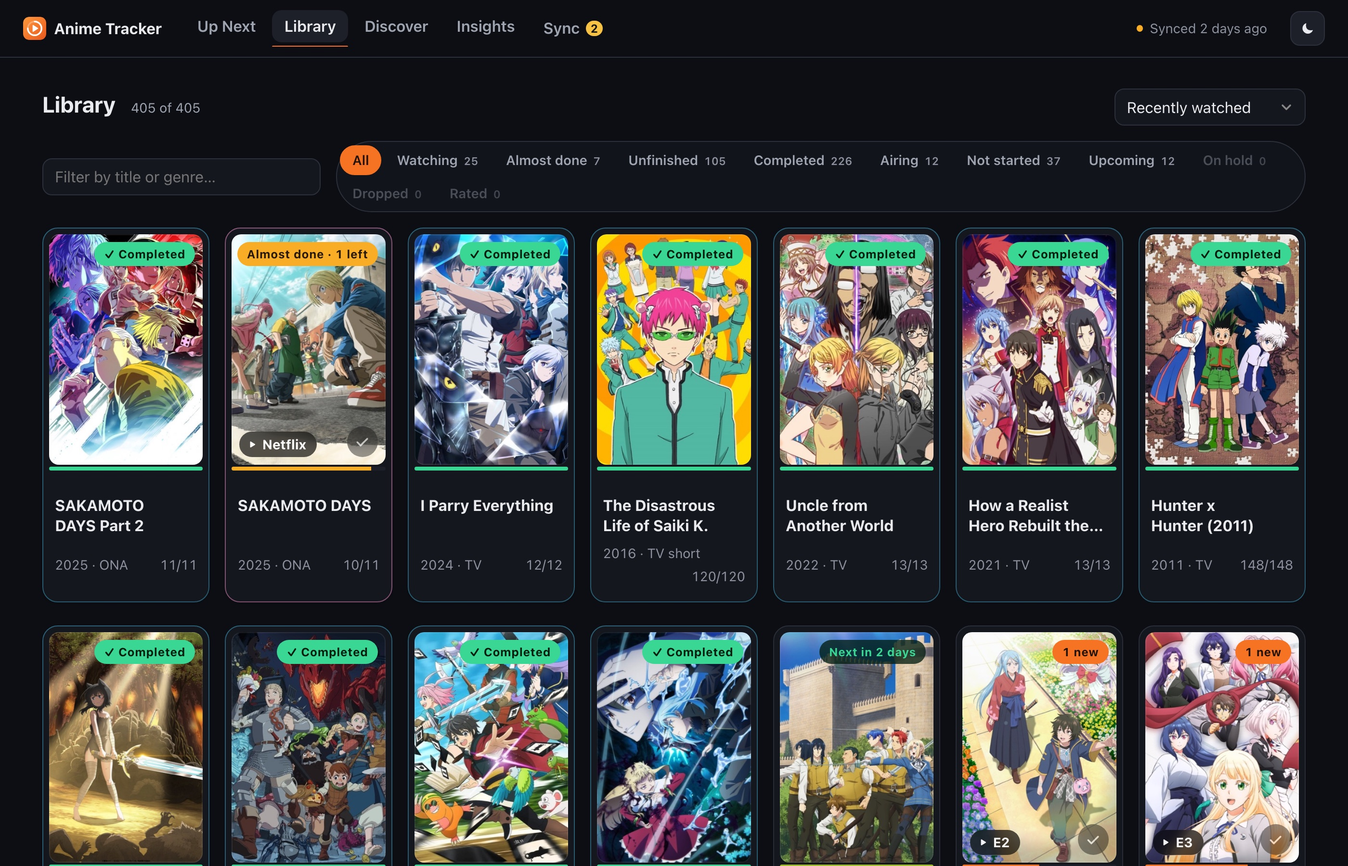
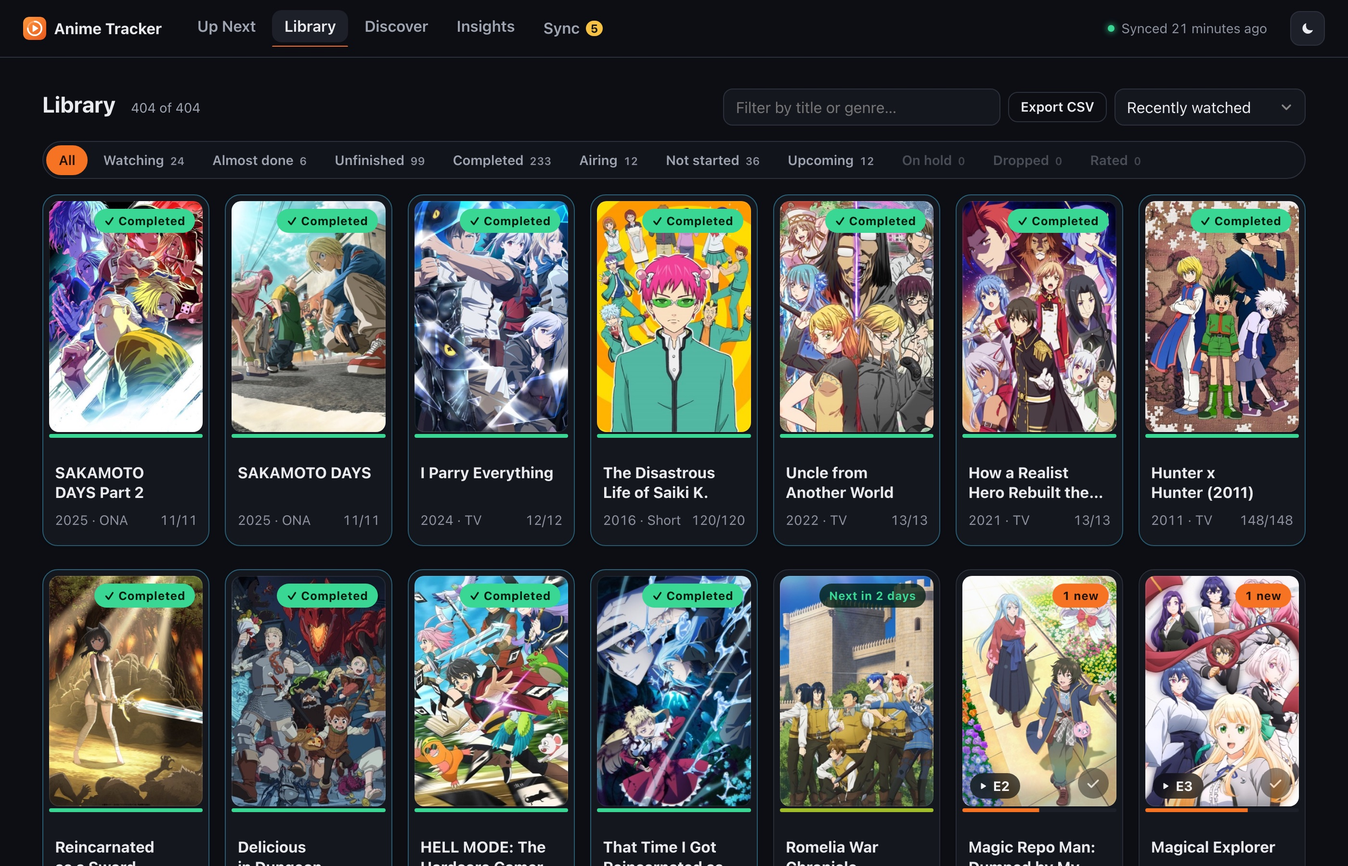
README: fresh screenshots after the spacing pass, nickname search, rating from the Crunchyroll card, AniList host permission; stat tiles wide on desktop and two per row on phones; units never split from numbers; 'Short' for TV shorts

diff --git a/public/js/views/insights.js b/public/js/views/insights.js
@@ -88,8 +88,8 @@ export async function render(view) {
         stat(t.showsStarted, 'shows started'),
         stat(`${finishRate}%`, `finished (${t.showsFinished}); ${t.showsDropped} sampled & dropped`),
         stat(`${String(peakHour).padStart(2, '0')}:00`, `peak hour · ${WEEKDAYS[peakDay]} is your top day`),
-        bestYear ? stat(bestYear.year, `biggest year: ${bestYear.hours} h, ${bestYear.shows} shows`) : null,
-        s.week ? stat(`${s.week.thisEpisodes} ep${s.week.thisEpisodes === 1 ? '' : 's'}`, `this week · ${s.week.thisHours} h · last week ${s.week.lastEpisodes} (${s.week.lastHours} h)${s.week.thisEpisodes > s.week.lastEpisodes ? ' ↑' : s.week.thisEpisodes < s.week.lastEpisodes ? ' ↓' : ''}`) : null,
+        bestYear ? stat(bestYear.year, `biggest year: ${bestYear.hours}\u00a0h, ${bestYear.shows} shows`) : null,
+        s.week ? stat(`${s.week.thisEpisodes} ep${s.week.thisEpisodes === 1 ? '' : 's'}`, `this week · ${s.week.thisHours}\u00a0h · last week ${s.week.lastEpisodes} (${s.week.lastHours}\u00a0h)${s.week.thisEpisodes > s.week.lastEpisodes ? ' ↑' : s.week.thisEpisodes < s.week.lastEpisodes ? ' ↓' : ''}`) : null,
         s.streaks ? stat(`${s.streaks.current} day${s.streaks.current === 1 ? '' : 's'}`, `current streak · longest ${s.streaks.longest}${s.streaks.longestEnd ? ` (ending ${new Date(s.streaks.longestEnd).toLocaleDateString(undefined, { month: 'short', year: 'numeric' })})` : ''} · ${s.streaks.activeDays} watch days`) : null)),
     h('div', { class: 'panels' },
       h('div', { class: 'panel' }, h('h3', {}, 'Hours per month'), bars(s.byMonth.map((m) => m.hours), s.byMonth.map((m) => (m.month.endsWith('-01') ? `’${m.month.slice(2, 4)}` : m.month.slice(5))), (v) => `${v} h`)),

diff --git a/public/styles.css b/public/styles.css
@@ -930,8 +930,7 @@ input:user-invalid { border-color: oklch(0.65 0.2 25); }
 /* ---------- Insights ---------- */
 .stat-row {
   display: grid;
-  /* Two per row on a phone (~21rem of content), more on wider screens. */
-  grid-template-columns: repeat(auto-fit, minmax(min(100%, 9rem), 1fr));
+  grid-template-columns: repeat(auto-fit, minmax(min(100%, 11rem), 1fr));
   gap: var(--space-s);
 }
 
@@ -1694,6 +1693,7 @@ button.history-row { cursor: pointer; }
   .tabs a { padding-inline: 0.5rem; font-size: var(--step--1); }
   .carousel { grid-auto-columns: min(72cqi, 19rem); }
   .carousel:has(> .rec-card) { grid-auto-columns: 44cqi; }
+  .stat-row { grid-template-columns: repeat(2, minmax(0, 1fr)); }
   .stat { padding: var(--space-xs) var(--space-s); }
   .stat .v { font-size: var(--step-2); }
 }

diff --git a/public/js/ui.js b/public/js/ui.js
@@ -153,7 +153,7 @@ export function statusPill(status) {
   return null;
 }
 
-export const FORMAT_LABEL = { TV: 'TV', TV_SHORT: 'TV short', MOVIE: 'Movie', OVA: 'OVA', ONA: 'ONA', SPECIAL: 'Special', MUSIC: 'Music' };
+export const FORMAT_LABEL = { TV: 'TV', TV_SHORT: 'Short', MOVIE: 'Movie', OVA: 'OVA', ONA: 'ONA', SPECIAL: 'Special', MUSIC: 'Music' };
 
 /**
  * Whole card clickable from one link: the title is a real link whose ::after covers the card.

diff --git a/README.md b/README.md
@@ -25,7 +25,7 @@ It's built around a real account: 3,884 Crunchyroll history entries going back t
 
 **Library.** Everything you've watched or added, with a badge for where you are: completed, almost done, unfinished, caught up on an airing show (with when the next episode lands), watching, not started, upcoming, on hold, dropped. Every filter shows its count and, for in-progress views, how long finishing everything would take. "Fewest episodes left" sorts the shows you're two episodes from finishing to the front, and the Unfinished view has Hold and Drop on each card plus one button to shelve everything untouched for a year. Progress forgives gaps in old history: a show counts as finished when its finale and at least three quarters of its episodes are watched. In-progress cards carry Play and tick buttons like Up Next.
 
-**Show details.** Play next at the top, then synopsis, genres, score, runtime (or time left), your star rating, hold and drop, every episode with its still and a Play button (watched ones fold away behind a count, so a 148-episode show opens on what's next), the rest of the franchise with your progress on each and one-tap Add, and "More like this": what AniList users who liked the show recommend. When a season is finished the panel offers the next one, following AniList's sequel links through OVAs to the real next TV season. "Where to watch" lists the official services AniList knows about, plus a direct Crunchyroll series link found through your history, AniList, or Crunchyroll's own search.
+**Show details.** Play next at the top, then synopsis, genres, score, runtime (or time left), your star rating, hold and drop, every episode with its still and a Play button (watched ones fold away behind a count, so a 148-episode show opens on what's next; for an airing show, the next episode shows when it airs and the rest wait in one line), the rest of the franchise with your progress on each and one-tap Add, and "More like this": what AniList users who liked the show recommend. When a season is finished the panel offers the next one, following AniList's sequel links through OVAs to the real next TV season. "Where to watch" lists the official services AniList knows about, plus a direct Crunchyroll series link found through your history, AniList, or Crunchyroll's own search.
 
 **Discover.** At the top, this season's airing anime scored against what you actually finish (continuations of your shows first). Below that, Recommendations for shows you haven't watched, built from AniList's community recommendations of the shows you engaged with most. A show you finished counts for more than one you sampled for two episodes, recent watching counts for more than something from 2019, and your star ratings scale it further: five stars counts double, one or two stars count against. Filters for length, "on Crunchyroll" and release year; a Crunchyroll link on the poster when it's there; Hide with Undo. Sequels of things you've seen are left out on purpose. The list is precomputed in the background, so the page opens instantly.
 
@@ -42,7 +42,7 @@ It's built around a real account: 3,884 Crunchyroll history entries going back t
   </tr>
 </table>
 
-**Keyboard.** ⌘K / Ctrl+K opens any show by name (or searches AniList), `/` jumps to search, 1–5 switch tabs, `?` lists them all.
+**Search and keyboard.** Search ignores punctuation and knows the nicknames AniList lists, so "jjk", "re zero" and "returners magic" all find their shows, in the Library filter and in ⌘K / Ctrl+K, which opens any show by name (or searches AniList); `/` jumps to search, 1–5 switch tabs, `?` lists them all.
 
 **Sync page.** Import a public AniList list by username, or a MyAnimeList list export (episodes watched, scores as stars, on hold and dropped; nothing already watched is ever un-watched). Seasons the tracker matched by guessing (fix one by searching for the right show), shows with odd progress (a finale ticked with most episodes not, usually a stray bulk mark), Crunchyroll seasons you sampled but never tracked, backups, and the extension's version.
 
@@ -122,9 +122,9 @@ The popup shows the last sync and what it found, plus three settings:
 | **Tracker key** | Leave empty locally. For the Cloudflare version, your passphrase |
 | **Sync now / Full resync** | Sync pulls recent history. Full resync pulls everything (use it once at the start) |
 
-After that it runs on its own: whenever you open Crunchyroll, every 30 minutes while Chrome is open, and a couple of minutes after you leave an episode's page, so a finished episode shows up on the dashboard while you're still picking the next one. The popup shows your top three "up next" shows with Play buttons, so the extension icon is the fastest way to start watching from any tab. The tracker's Sync page tells you when a newer extension has shipped. When a show you're watching gets a new episode, or a show you finished starts a new season, the extension shows a desktop notification after its next sync; clicking it opens the episode. The icon's badge counts shows with a new episode this week. On a show's page on crunchyroll.com, a small card in the corner shows your progress on each of its seasons, the next episode or a new season you haven't started, and a link into the tracker. Turn notifications off under Settings in the popup.
+After that it runs on its own: whenever you open Crunchyroll, every 30 minutes while Chrome is open, and a couple of minutes after you leave an episode's page, so a finished episode shows up on the dashboard while you're still picking the next one. The popup shows your top three "up next" shows with Play buttons, so the extension icon is the fastest way to start watching from any tab. The tracker's Sync page tells you when a newer extension has shipped. When a show you're watching gets a new episode, or a show you finished starts a new season, the extension shows a desktop notification after its next sync; clicking it opens the episode. The icon's badge counts shows with a new episode this week. On a show's page on crunchyroll.com, a small card in the corner shows your progress on each of its seasons, the next episode or a new season you haven't started, and a link into the tracker; when you've finished a show and haven't rated it, the card has stars so you can rate it right there. Turn notifications off under Settings in the popup.
 
-**What it can see and send.** The extension has access to `crunchyroll.com`, `localhost`, `127.0.0.1` and `*.workers.dev`, nothing else. It reads your watch history and season episode lists through Crunchyroll's own web API, using the session you're already logged into, and posts them to the tracker URL you set. The short-lived access token it gets from Crunchyroll stays in memory and is never written anywhere or sent to the tracker.
+**What it can see and send.** The extension has access to `crunchyroll.com`, `graphql.anilist.co` (to fetch AniList data when the hosted tracker is blocked from it), `localhost`, `127.0.0.1` and `*.workers.dev`, nothing else. It reads your watch history and season episode lists through Crunchyroll's own web API, using the session you're already logged into, and posts them to the tracker URL you set. The short-lived access token it gets from Crunchyroll stays in memory and is never written anywhere or sent to the tracker.
 
 **If it says "never synced".** Open a Crunchyroll tab (or reload one that was open before you installed the extension), then press **Sync now**. Errors show in red in the popup.
 
